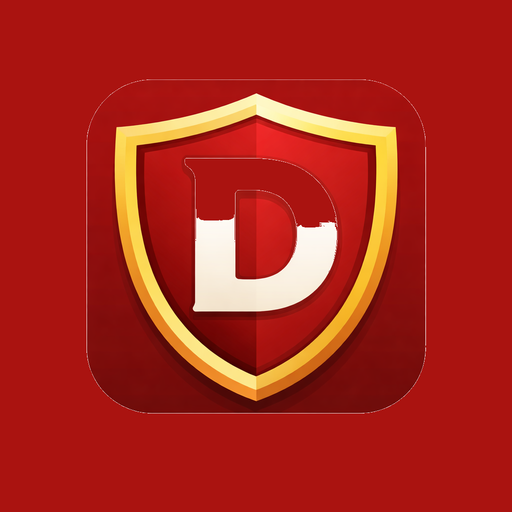
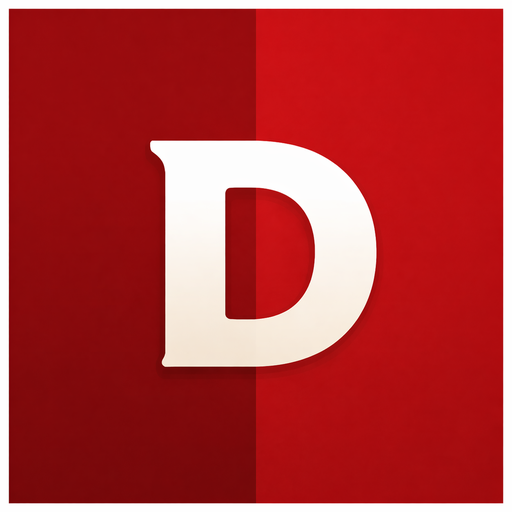
Icona: nova D blanca sobre vermell (192/512/maskable) + SW v5

diff --git a/sw.js b/sw.js
@@ -1,6 +1,6 @@
 // Denunciem.cat — Service Worker
 // Versió: puja-la a cada release
-const CACHE = 'denunciem-v4';
+const CACHE = 'denunciem-v5';
 
 // Core: fitxers que canvien sovint → network-first
 const CORE = [
